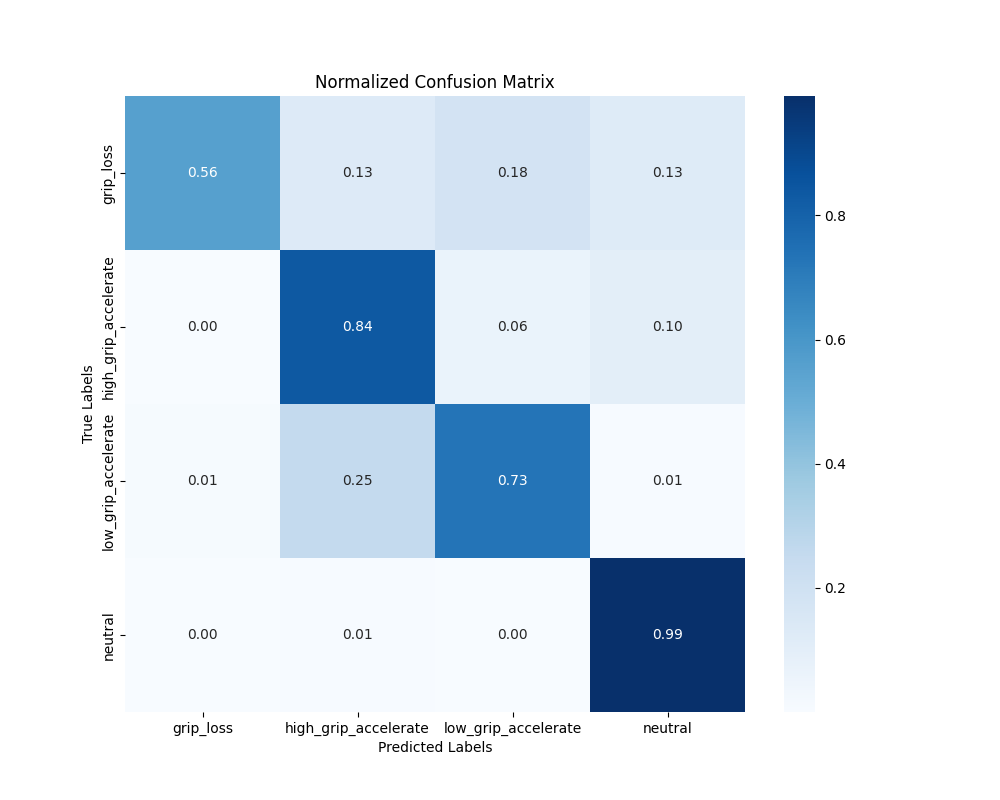
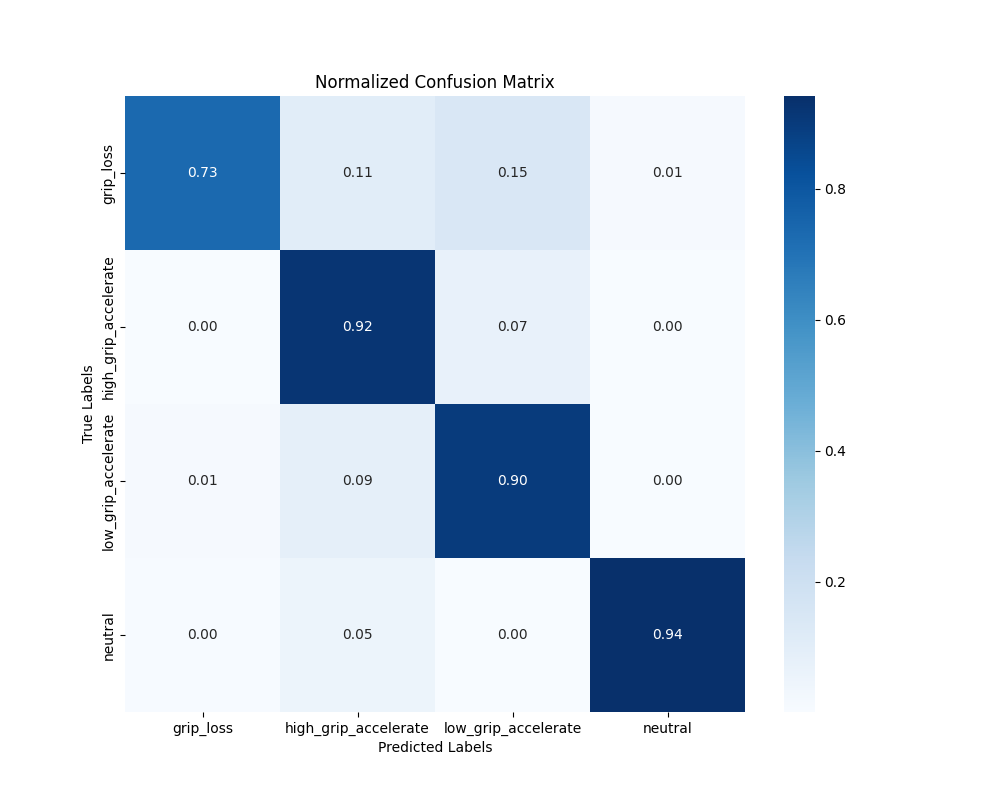
Go on

diff --git a/Training_Data/5_random.py b/Training_Data/5_random.py
@@ -1,0 +1,200 @@
+import pandas as pd
+import numpy as np
+from sklearn.preprocessing import StandardScaler, LabelEncoder
+from sklearn.model_selection import train_test_split
+from keras.models import Sequential
+from keras.layers import Dense, Dropout
+from keras.utils import to_categorical
+from sklearn.metrics import classification_report, confusion_matrix
+from sklearn.utils.class_weight import compute_class_weight
+from sklearn.utils import shuffle
+from preprocess_dataset import fix_dataset, load_telemetry_data
+from custom_early_stop import CustomEarlyStopping
+import seaborn as sns
+import matplotlib.pyplot as plt
+import joblib
+
+import tensorflow as tf
+from tensorflow.config import threading
+
+# Configura TensorFlow per utilizzare tutti i processori disponibili
+num_threads = tf.config.threading.get_intra_op_parallelism_threads()
+print(f"Numero di thread disponibili: {num_threads}")
+
+tf.config.threading.set_intra_op_parallelism_threads(0)  # 0 significa "usa tutti i thread disponibili"
+tf.config.threading.set_inter_op_parallelism_threads(0)
+
+import os
+os.environ["OMP_NUM_THREADS"] = "0"  # 0 significa "usa tutti i thread disponibili"
+os.environ["OPENBLAS_NUM_THREADS"] = "0"
+os.environ["MKL_NUM_THREADS"] = "0"
+os.environ["VECLIB_MAXIMUM_THREADS"] = "0"
+os.environ["NUMEXPR_NUM_THREADS"] = "0"
+
+# === Configurazione iniziale ===
+split_by_circuit = False  # Non usiamo split per circuito
+random_state = 42  # Per riproducibilità
+
+# === Caricamento e preprocessing ===
+df = load_telemetry_data("../data/dataset/vehicle_telemetry_*.csv")
+if df.empty:
+    print("Nessun file trovato. Controlla il pattern o la cartella.")
+    exit()
+
+df = fix_dataset(df)
+
+result_encoder = LabelEncoder()
+df["result"] = result_encoder.fit_transform(df["result"])
+result_classes = result_encoder.classes_
+print("Mappatura delle classi:")
+for i, class_name in enumerate(result_classes):
+    print(f"{i}: {class_name}")
+
+# Encoding altre colonne categoriali
+df["track"] = LabelEncoder().fit_transform(df["track"])
+df["driver"] = LabelEncoder().fit_transform(df["driver"])
+df["temp"] = LabelEncoder().fit_transform(df["temp"])
+
+# Selezione feature numeriche + scaling
+feature_cols = [col for col in df.columns if col not in ["track", "driver", "temp", "result"]]
+scaler = StandardScaler()
+df[feature_cols] = scaler.fit_transform(df[feature_cols])
+joblib.dump(scaler, "./models/0_simple_scaler_random.pkl")
+
+# === Split casuale dei dati ===
+X = df[feature_cols]
+y = to_categorical(df["result"], num_classes=4)
+
+X_train, X_temp, y_train, y_temp = train_test_split(X, y, test_size=0.3, random_state=random_state, stratify=df["result"])
+X_val, X_test, y_val, y_test = train_test_split(X_temp, y_temp, test_size=0.5, random_state=random_state, stratify=np.argmax(y_temp, axis=1))
+
+# === Data Augmentation ===
+# === Data Augmentation ===
+# Identifica le classi sottorappresentate
+class_counts = np.sum(y_train, axis=0)
+max_count = np.max(class_counts)
+
+augmented_X, augmented_y = [], []
+augmentation_limit = 10000  # Limite massimo di esempi aggiunti per evitare problemi di memoria
+
+for i, count in enumerate(class_counts):
+    if count < max_count:
+        # Filtra i dati della classe sottorappresentata
+        class_indices = np.where(np.argmax(y_train, axis=1) == i)[0]
+        class_X = X_train.iloc[class_indices]
+        class_y = y_train[class_indices]
+
+        # Calcola il numero di duplicazioni necessarie
+        num_to_add = max_count - count
+        num_added = 0
+
+        # Duplica i dati fino a raggiungere il numero massimo o il limite
+        while num_added < num_to_add and len(augmented_X) < augmentation_limit:
+            augmented_X.append(class_X)
+            augmented_y.append(class_y)
+            num_added += len(class_X)
+            class_X = class_X.sample(frac=1, replace=True, random_state=random_state)  # Shuffle
+
+# Combina i dati originali con quelli aumentati
+if augmented_X:
+    augmented_X = pd.concat(augmented_X, axis=0)
+    augmented_y = np.vstack(augmented_y)
+
+    X_train = pd.concat([X_train, augmented_X], axis=0)
+    y_train = np.vstack([y_train, augmented_y])
+
+# Conta il numero di etichette per classe dopo la data augmentation
+class_distribution = np.bincount(np.argmax(y_train, axis=1))
+print("Distribuzione delle classi dopo la data augmentation:")
+for i, count in enumerate(class_distribution):
+    print(f"Classe {i} ({result_classes[i]}): {count} esempi")
+
+# Conta il numero di etichette per classe dopo la data augmentation
+class_distribution = np.bincount(np.argmax(y_train, axis=1))
+print("Distribuzione delle classi dopo la data augmentation:")
+for i, count in enumerate(class_distribution):
+    print(f"Classe {i} ({result_classes[i]}): {count} esempi")
+
+# Shuffle finale
+X_train, y_train = shuffle(X_train, y_train, random_state=random_state)
+
+# === Modello ===
+model = Sequential([
+    Dense(128, activation='relu', input_shape=(X_train.shape[1],)),
+    Dropout(0.2),
+    Dense(64, activation='relu'),
+    Dense(32, activation='relu'),
+    Dense(4, activation='softmax')
+])
+
+model.compile(
+    optimizer='adam',
+    loss='categorical_crossentropy',
+    metrics=['accuracy']
+)
+
+class_weights = compute_class_weight(
+    class_weight="balanced",
+    classes=np.unique(np.argmax(y_train, axis=1)),
+    y=np.argmax(y_train, axis=1)
+)
+class_weights_dict = dict(enumerate(class_weights))
+
+custom_early_stopping = CustomEarlyStopping(validation_data=(X_val, y_val), patience=7)
+
+history = model.fit(
+    X_train, y_train,
+    validation_data=(X_val, y_val),
+    epochs=50,
+    batch_size=64,
+    callbacks=[custom_early_stopping],
+    class_weight=class_weights_dict,
+    verbose=0
+)
+
+model.save("./models/0_simple_cnn_model_random_augmented.keras")
+
+test_loss, test_acc = model.evaluate(X_test, y_test)
+print(f"Overall Test accuracy: {test_acc:.2f}")
+
+y_pred = model.predict(X_test)
+y_pred_classes = np.argmax(y_pred, axis=1)
+y_true_classes = np.argmax(y_test, axis=1)
+
+report = classification_report(y_true_classes, y_pred_classes, target_names=result_classes, output_dict=True, zero_division=0)
+for label, metrics in report.items():
+    if isinstance(metrics, dict):  # Skip overall metrics like 'accuracy'
+        print(f"precision for label '{label}': {metrics['precision']:.2f}")
+
+conf_matrix = confusion_matrix(y_true_classes, y_pred_classes, normalize='true')
+
+plt.figure(figsize=(10, 8))
+sns.heatmap(conf_matrix, annot=True, fmt='.2f', cmap='Blues', xticklabels=result_classes, yticklabels=result_classes)
+plt.title('Normalized Confusion Matrix')
+plt.xlabel('Predicted Labels')
+plt.ylabel('True Labels')
+plt.show()
+
+history = model.history
+plt.figure(figsize=(12, 12))
+
+plt.subplot(2, 1, 1)
+plt.plot(history.history['loss'], label='Training Loss')
+plt.plot(history.history['val_loss'], label='Validation Loss')
+plt.title('Training and Validation Loss')
+plt.xlabel('Epochs')
+plt.ylabel('Loss')
+plt.legend()
+plt.grid()
+
+plt.subplot(2, 1, 2)
+plt.plot(history.history['accuracy'], label='Training Accuracy')
+plt.plot(history.history['val_accuracy'], label='Validation Accuracy')
+plt.title('Training and Validation Accuracy')
+plt.xlabel('Epochs')
+plt.ylabel('Accuracy')
+plt.legend()
+plt.grid()
+
+plt.tight_layout()
+plt.show()

diff --git a/app/app.py b/app/app.py
@@ -14,6 +14,10 @@ import pandas as pd
 
 import sys
 import os
+import asyncio
+import websockets
+import threading
+import json
 sys.path.append(os.path.abspath(os.path.join(os.path.dirname(__file__), '..')))
 from env.shared_memory_physics import read_telemetry
 from env.shared_memory_graphics import read_graphics
@@ -25,6 +29,37 @@ scaler = joblib.load("../Training_Data/models/0_simple_scaler.pkl")
 
 sys.path.append(os.path.abspath(os.path.join(os.path.dirname(__file__), '../training_data')))
 
+
+
+
+# Lista dei client connessi
+connected_clients = set()
+
+async def websocket_handler(websocket, path):
+    # Aggiungi il client alla lista dei connessi
+    connected_clients.add(websocket)
+    try:
+        async for message in websocket:
+            pass  # Il server non riceve messaggi, solo invia
+    finally:
+        # Rimuovi il client dalla lista quando si disconnette
+        connected_clients.remove(websocket)
+
+async def send_data(label_pred, slips):
+    if connected_clients:  # Invia solo se ci sono client connessi
+        data = {
+            "label_pred": label_pred,
+            "slips": slips
+        }
+        message = json.dumps(data)
+        await asyncio.wait([client.send(message) for client in connected_clients])
+
+def start_websocket_server():
+    asyncio.set_event_loop(asyncio.new_event_loop())
+    loop = asyncio.get_event_loop()
+    start_server = websockets.serve(websocket_handler, "localhost", 8765)
+    loop.run_until_complete(start_server)
+    loop.run_forever()
 
 
 LABEL_STATES = {
@@ -250,6 +285,7 @@ class MainWindow(QWidget):
     def update_data(self):
         telem = read_telemetry()
         graphics = read_graphics()
+        label_pred = 0
 
         label_pred = 3
         if telem["speed"] < 20:
@@ -299,6 +335,7 @@ class MainWindow(QWidget):
 
         self.current_label_pred = label_pred
         self.sounds[label_pred].play()
+        asyncio.run(send_data(label_pred, slips))
 
 def convert_to_milliseconds(time_str: str) -> int:
     parts = time_str.split(":")
@@ -371,6 +408,8 @@ def predict_realtime(model, processed_data):
     return predicted_class
 
 if __name__ == "__main__":
+    websocket_thread = threading.Thread(target=start_websocket_server, daemon=True)
+    websocket_thread.start()
     app = QApplication(sys.argv)
     win = MainWindow()
     win.show()

diff --git a/Training_Data/1_lstm.py b/Training_Data/1_lstm.py
@@ -14,7 +14,7 @@ import joblib
 
 # === Configurazione iniziale ===
 split_by_circuit = True
-window_size = 5
+window_size = 3
 
 # === Caricamento e preprocessing ===
 df = load_telemetry_data("../data/dataset/vehicle_telemetry_*.csv")
@@ -86,8 +86,8 @@ else:
 
 # === Calcolo class weights ===
 y_train_labels = np.argmax(y_train, axis=1)
-# class_weights = compute_class_weight(class_weight="balanced", classes=np.unique(y_train_labels), y=y_train_labels)
-# class_weights_dict = dict(enumerate(class_weights))
+class_weights = compute_class_weight(class_weight="balanced", classes=np.unique(y_train_labels), y=y_train_labels)
+class_weights_dict = dict(enumerate(class_weights))
 
 custom_early_stopping = CustomEarlyStopping(validation_data=(X_val, y_val), patience=7)
 

diff --git a/Training_Data/0_simple_train.py b/Training_Data/0_simple_train.py
@@ -102,7 +102,7 @@ history = model.fit(
     batch_size=64,
     callbacks=[custom_early_stopping],
     class_weight=class_weights_dict,
-    verbose=1
+    verbose=0
 )
 
 model.save("./models/0_simple_cnn_model.keras")

diff --git a/NoteTesiScritta/1_NoteModello.md b/NoteTesiScritta/1_NoteModello.md
@@ -87,9 +87,10 @@ Con pesi modificati, per dare più peso alle classi con meno record (foto) .76 g
 Epoch 20: Mean Precision = 0.6663
 1124/1124 ━━━━━━━━━━━━━━━━━━━━ 4s 3ms/step - accuracy: 0.9403 - loss: 0.2150 - val_accuracy: 0.8861 - val_loss: 0.3665
 
-Precision for label 'grip_loss': 0.54
-Precision for label 'high_grip_accelerate': 0.88
-Precision for label 'low_grip_accelerate': 0.71
-Precision for label 'neutral': 0.99
-Accuracy for label 'macro avg': 0.78
-Accuracy for label 'weighted avg': 0.92
+W1
+Accuracy for label 'grip_loss': 0.71
+Accuracy for label 'high_grip_accelerate': 0.87
+Accuracy for label 'low_grip_accelerate': 0.79
+Accuracy for label 'neutral': 1.00
+Accuracy for label 'macro avg': 0.84
+Accuracy for label 'weighted avg': 0.93